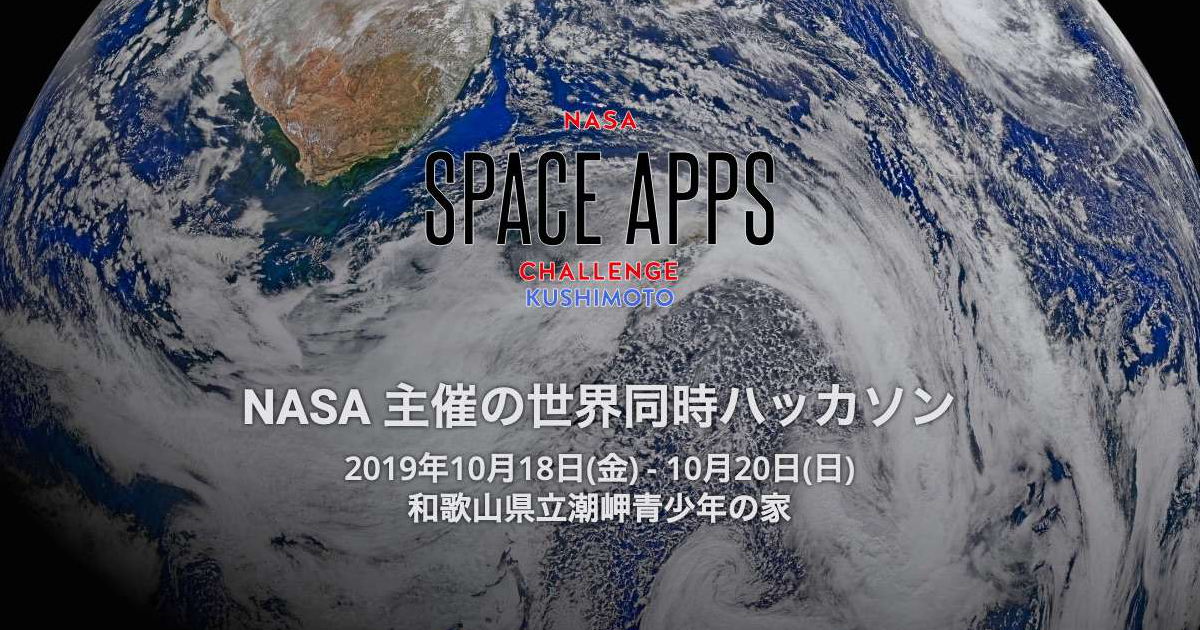
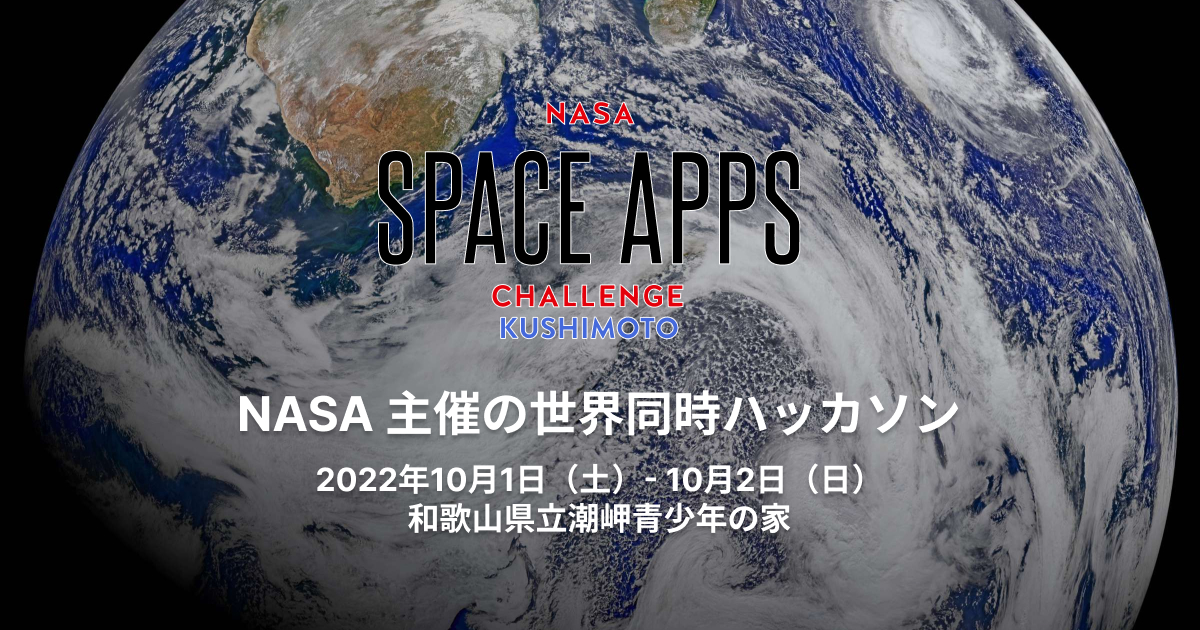
remove sponser page and replace ogp

diff --git a/_includes/header.html b/_includes/header.html
@@ -23,7 +23,7 @@
                 <li><a href="{{ site.baseurl }}/posts">お知らせ</a></li>
                 <li><a href="{{ site.baseurl }}/schedule">開催概要</a></li>
                 <li><a href="{{ site.baseurl }}/access">アクセス</a></li>
-                <li><a href="{{ site.baseurl }}/sponsor">スポンサー</a></li>
+                <!-- <li><a href="{{ site.baseurl }}/sponsor">スポンサー</a></li> -->
                 <li><a href="{{ site.baseurl }}/code-of-conduct">行動規範</a></li>
 <!--                <li><a href="{{ site.baseurl }}/contact">お問い合わせ</a></li>-->
               </ul>

diff --git a/_includes/footer.html b/_includes/footer.html
@@ -43,7 +43,7 @@
             <li><a href="{{ site.baseurl }}/posts">お知らせ</a></li>
             <li><a href="{{ site.baseurl }}/schedule">開催概要</a></li>
             <li><a href="{{ site.baseurl }}/access">アクセス</a></li>
-            <li><a href="{{ site.baseurl }}/sponsor">スポンサー</a></li>
+            <!-- <li><a href="{{ site.baseurl }}/sponsor">スポンサー</a></li> -->
             <li><a href="{{ site.baseurl }}/code-of-conduct">行動規範</a></li>
 <!--            <li><a href="{{ site.baseurl }}/contact">お問い合わせ</a></li>-->
           </ul>

diff --git a/schedule.md b/schedule.md
@@ -35,16 +35,12 @@ permalink: /schedule/
 本イベントは無料でご参加頂けますが、食費・宿泊費として以下が必要になります。
 
 宿泊・食費：（1泊4食）
-- 県内の方（18才以下）：3,130円
-- 県内の方（19才以上）：3,660円
-- 県外の方：3,970円
+- 県内の方（18才以下）：3,260円
+- 県内の方（19才以上）：3,790円
+- 県外の方：4,100円
 
 
 ## タイムテーブル
-
-* 遠方の方は10月18日から前入り可能です。
-* 10月19日から参加される場合は10時までに受付を完了させてください。
-
 
 ### 10月1日（土曜日）
 
